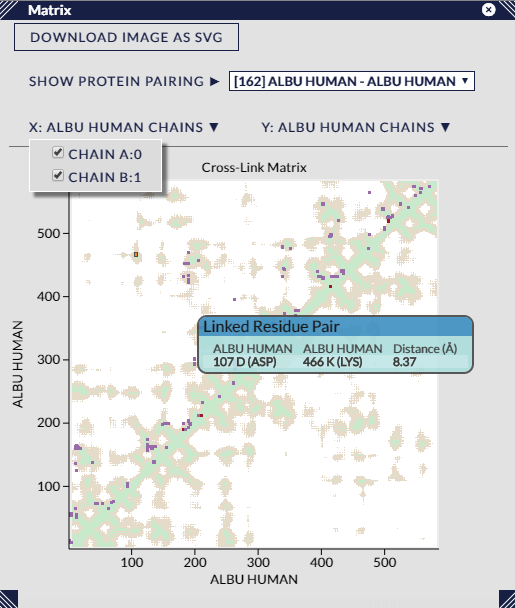
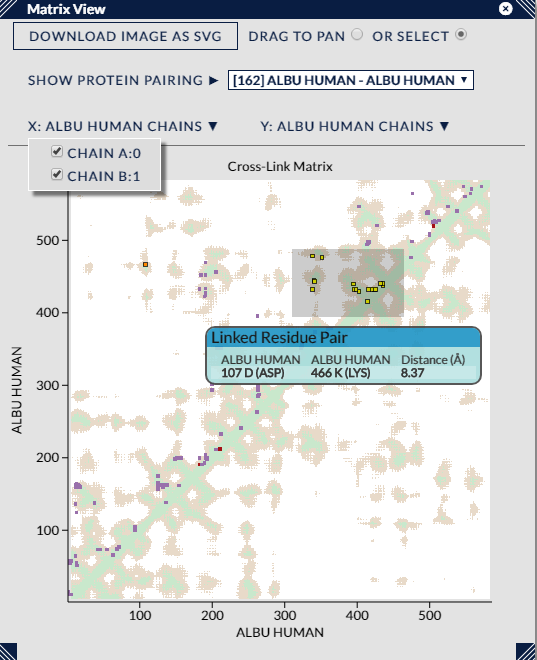
updated matrix doc

diff --git a/md/views/matrix.md b/md/views/matrix.md
@@ -6,13 +6,17 @@ The Matrix View (aka a Contact Map) lays out a pair of proteins along the X and 
 
 The matrix is extremely useful for exploring dense areas of cross-linking that could be impenetrable in other views. In addition, when a reasonably sized pdb file is used, full distance information can be plotted in the background of the matrix, enabling cross-links to be seen against this context.
 
-The cross-links within the matrix are coloured with the current colour scheme, and a tooltip will show information on any cross-links within a small distance of the mouse pointer. Similarly, the left mouse button will select any currently highlighted cross-links. When the CTRL key is also pressed, selecting will add unselected cross-links to or remove currently selected cross-links from the current selection, otherwise the selection is set to what is highlighted. As with other views, cross-links that have been selected elsewhere will be shown as selected in this view.
-
-The mouse wheel is used to zoom in and out of the matrix view, and left-clicking the mouse and dragging will pan the view. The axes will update to show the current range of the matrix.
+The cross-links within the matrix are coloured with the current colour scheme, and a tooltip will show information on any cross-links within a small distance of the mouse pointer.
 
 ### Options ###
 
-The first dropdown menu, "Show Protein Pairing", in the view controls shows a list of possible protein-protein pairings that can be shown in the matrix. Only those pairings with any unfiltered cross-links are listed, and also ordered by the number of cross-links (again, this is the unfiltered count, it does not change upon cross-link filtering).
+#### Panning & Selecting
+
+The first two options, "Drag to Pan" & "Or Select", are a pair of radio buttons that decide the model of operation of the matrix when the left mouse button is clicked and dragged. When the "Pan" mode is set, the mouse-wheel will smoothly change the magnification level of the matrix, and holding down the left-mouse button and dragging will pan the matrix if the magnification level permits. Alternatively, when the "Select" mode is set, the mouse wheel has no effect, and holding down the left-mouse button and dragging will draw a box in the view that will select all the cross-links within it when the mouse button is released. This box, when in the "Select" mode, can also be resized and dragged around the matrix to gauge its effect upon cross-link selection. Left-clicking anywhere outside the box will remove it and the current cross-link selection.
+
+#### Other
+
+The dropdown menu, "Show Protein Pairing", in the view controls shows a list of possible protein-protein pairings that can be shown in the matrix. Only those pairings with any unfiltered cross-links are listed, and also ordered by the number of cross-links (again, this is the unfiltered count, it does not change upon cross-link filtering).
 
 Choosing a pairing that pairs a protein with itself will show the self cross-links for that protein. In this particular case, we treat the protein along the Y axis as always having the highest residue index out of the two residues involved in a cross-link, so cross-links always appear "north-west" of the diagonal. Choosing a pairing of two different proteins will show the corresponding between cross-links, and also produce a rectangular matrix when the proteins are of different sizes. 
 
